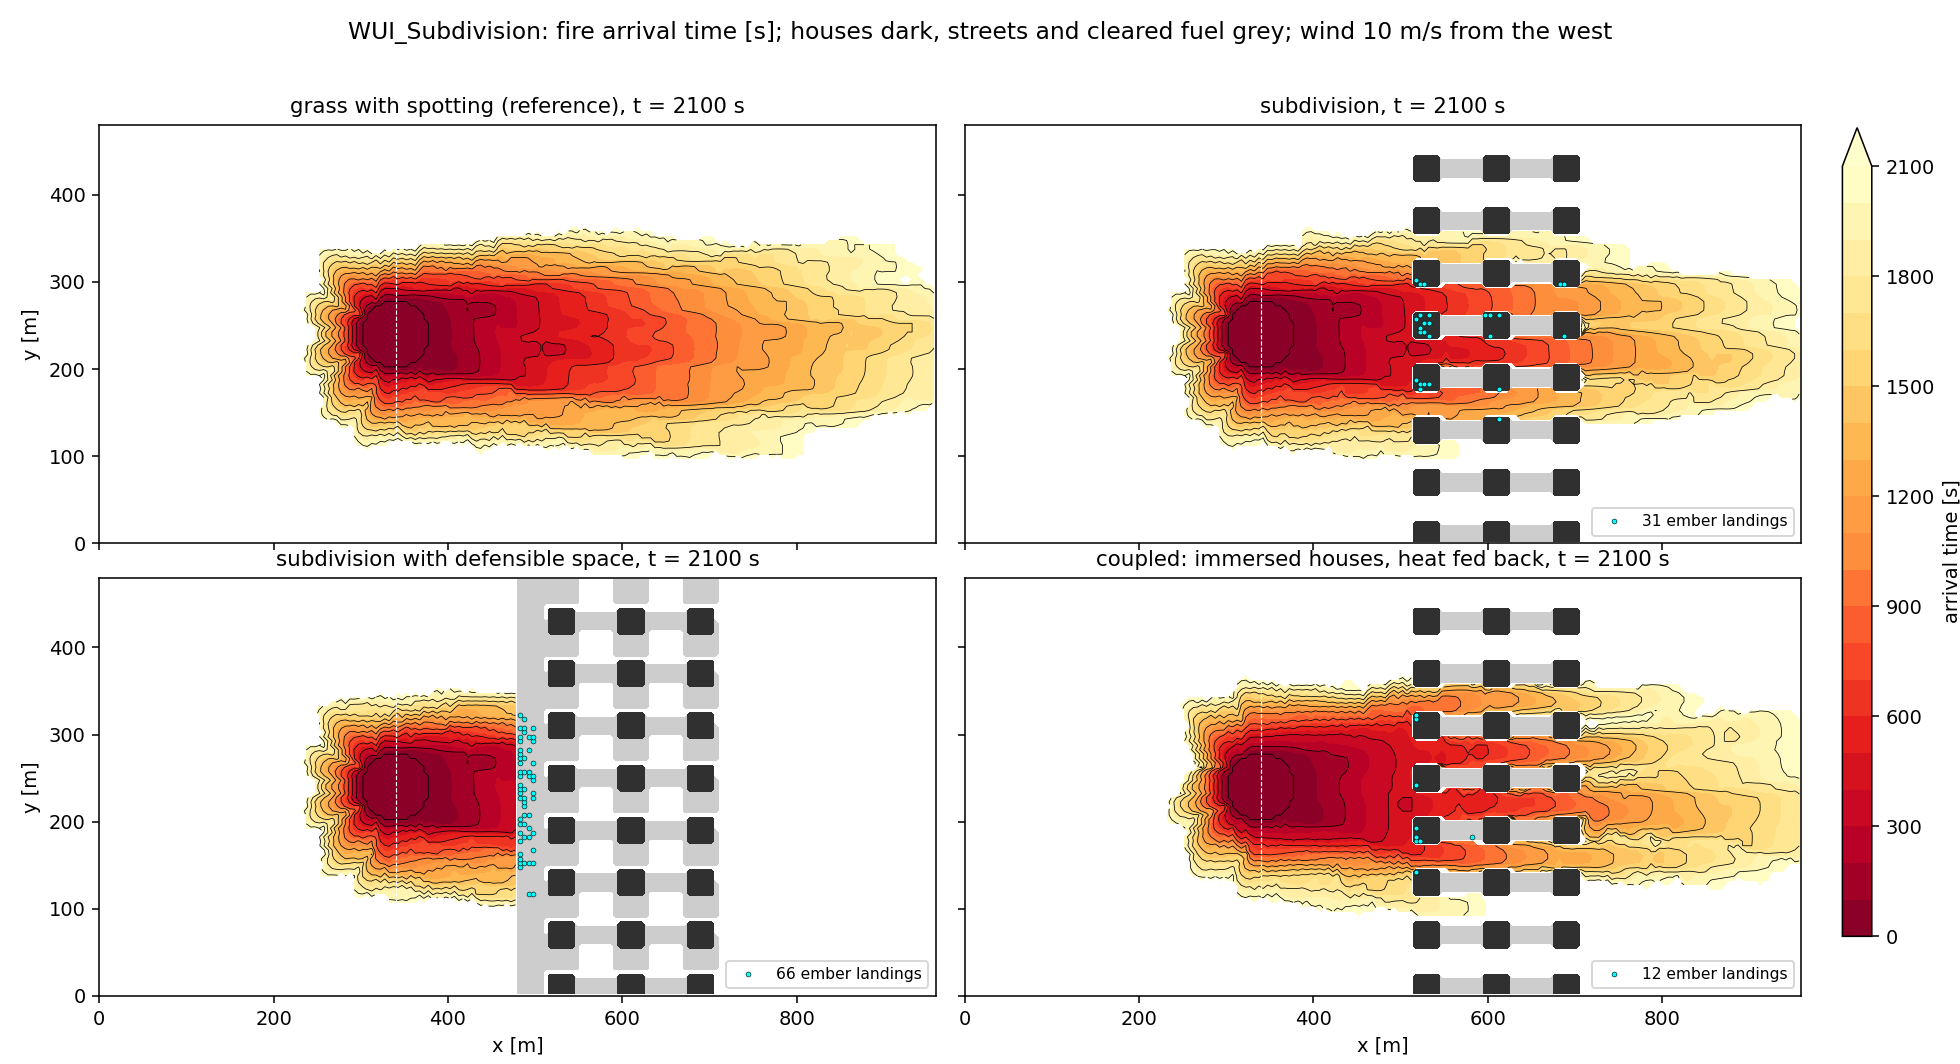
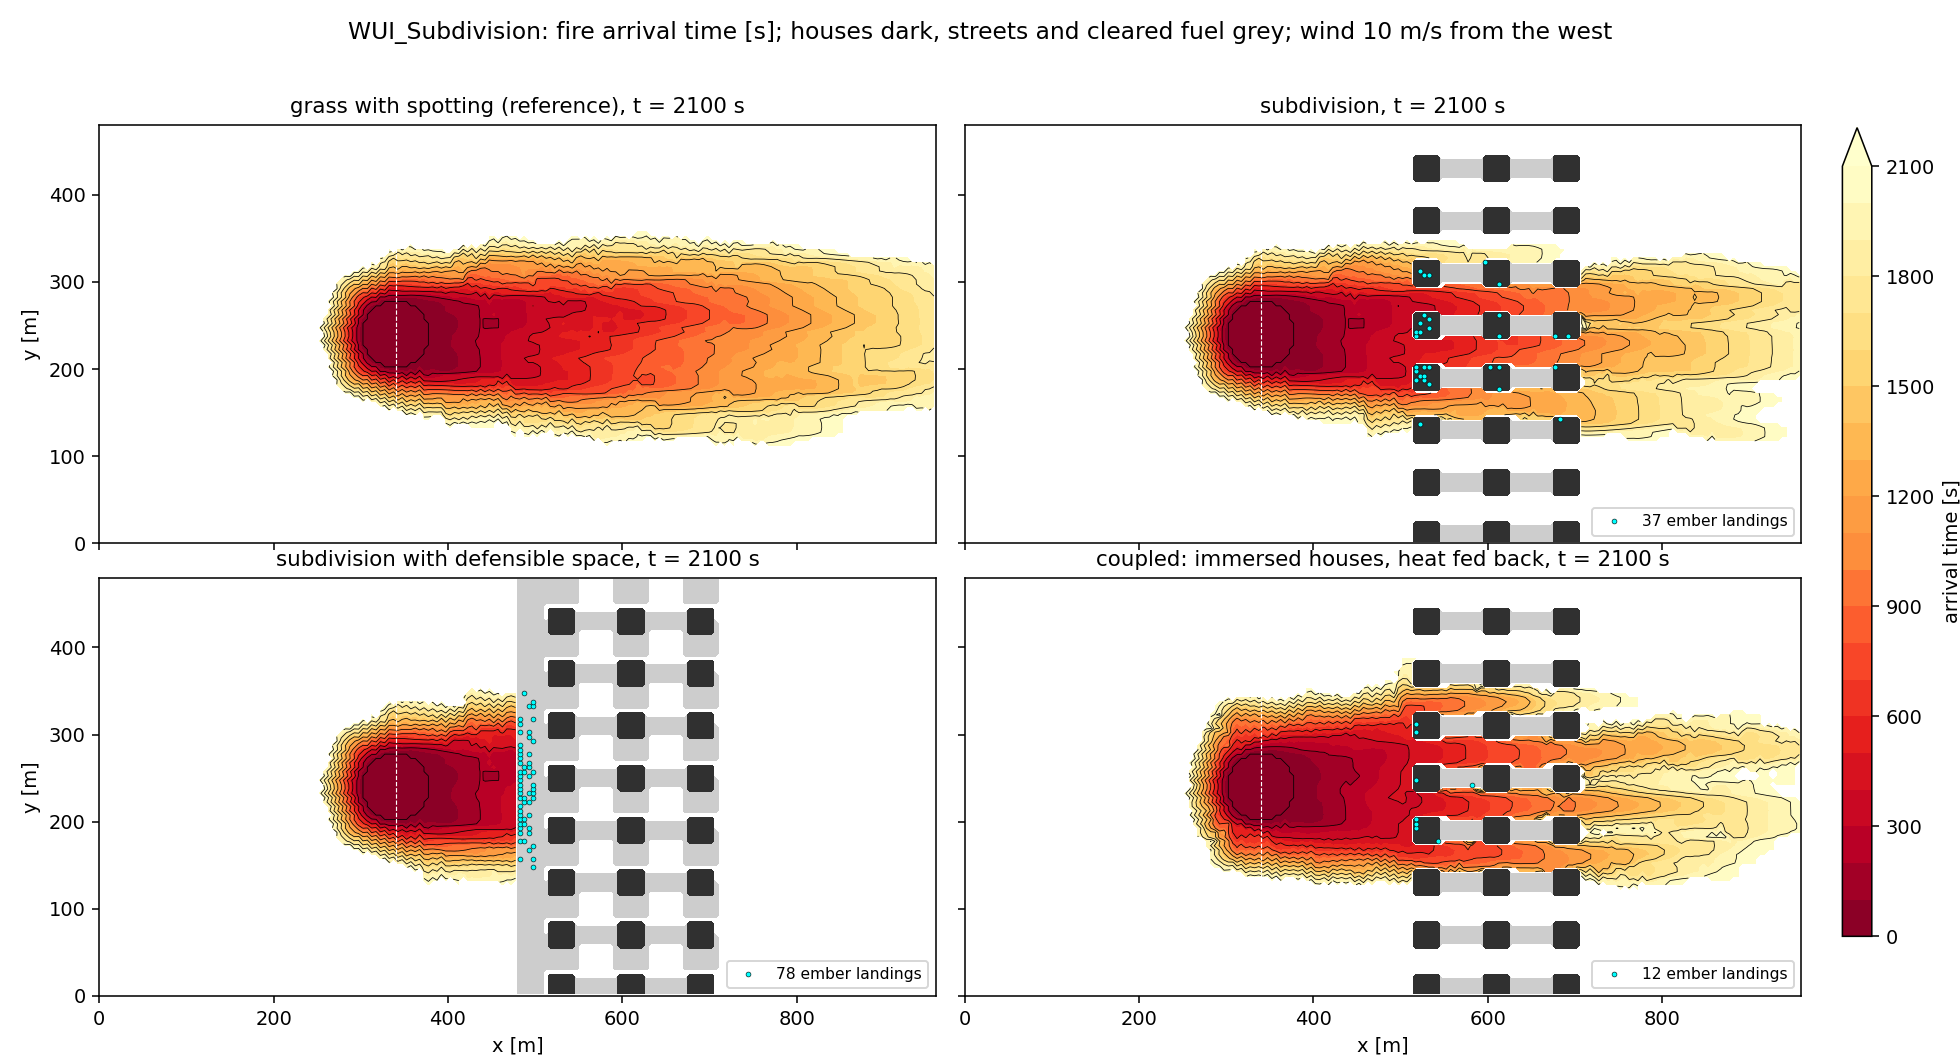
Update the WUI_Subdivision reference results for the hybrid WENO level set
All seven checks pass with the new default; the first-order numbers are
kept in the README for comparison. The docs figure is regenerated.

diff --git a/Exec/CanonicalTests/Fire/WUI_Subdivision/README.md b/Exec/CanonicalTests/Fire/WUI_Subdivision/README.md
@@ -71,23 +71,30 @@ future work.
 
 ## Reference results
 
-Two ranks, 2100 s, level set with the Godunov upwind branch (2026-09-05):
+Two ranks, 2100 s, level set with the default hybrid WENO5-Z/first-order
+derivatives (`erf.fire.levelset.gradient = weno5z_front`, 2026-09-05):
 
 | variant            | x = 780 m at [s] | burned cells | houses reached | peak intensity [kW/m] | max heat load [MJ/m²] | ember landings |
 |--------------------|-----------------:|-------------:|---------------:|----------------------:|----------------------:|---------------:|
-| wildland           |             1612 |         5242 |              - |                     - |                     - |              - |
-| wildland_spotting  |             1176 |         6676 |              - |                     - |                     - |              - |
-| subdivision        |             1403 |         5470 |          15/24 |                   773 |                  3.11 |             31 |
-| defensible         |            never |         2210 |           0/24 |                     0 |                  0.00 |              0 |
-| coupled            |             1441 |         5981 |          15/24 |                   773 |                  3.11 |             11 |
+| wildland           |             1613 |         4076 |              - |                     - |                     - |              - |
+| wildland_spotting  |             1181 |         5856 |              - |                     - |                     - |              - |
+| subdivision        |             1352 |         4916 |          12/24 |                   773 |                  3.11 |             37 |
+| defensible         |            never |         1660 |           0/24 |                     0 |                  0.00 |              0 |
+| coupled            |             1855 |         5069 |          15/24 |                   773 |                  3.11 |             11 |
 
-The wildland head moves at 0.250 m/s between x = 400 and 470 m against
+The wildland head moves at 0.249 m/s between x = 400 and 470 m against
 Rothermel's 0.2501 m/s for FM1 at 6% moisture and the 300 ft/min wind cap;
 the fuel consumed over its burned area is within 1.5% of the initial load.
 No footprint cell burns or loses fuel in any variant. The subdivision's first
-contacts are at 407, 581 and 816 s for the three rows; the coupled run's at
-427, 567 and 853 s, with a plume of 20 m/s at the end. `wui_spread.png` in
+contacts are at 314, 607 and 846 s for the three rows; the coupled run's at
+392, 695 and 1014 s, with a plume of 20 m/s at the end. `wui_spread.png` in
 the docs figures shows the four arrival-time maps.
+
+With first-order derivatives everywhere (`gradient = upwind`) the same runs
+gave x = 780 m at 1612 / 1176 / 1403 / never / 1441 s and 5242 / 6676 /
+5470 / 2210 / 5981 burned cells: the head rate is the same and the flanks
+are wider, so the first-order fire burns about a fifth more area and, in
+the coupled run, gets through the lanes sooner on that wider front.
 
 ## What this case found
 
